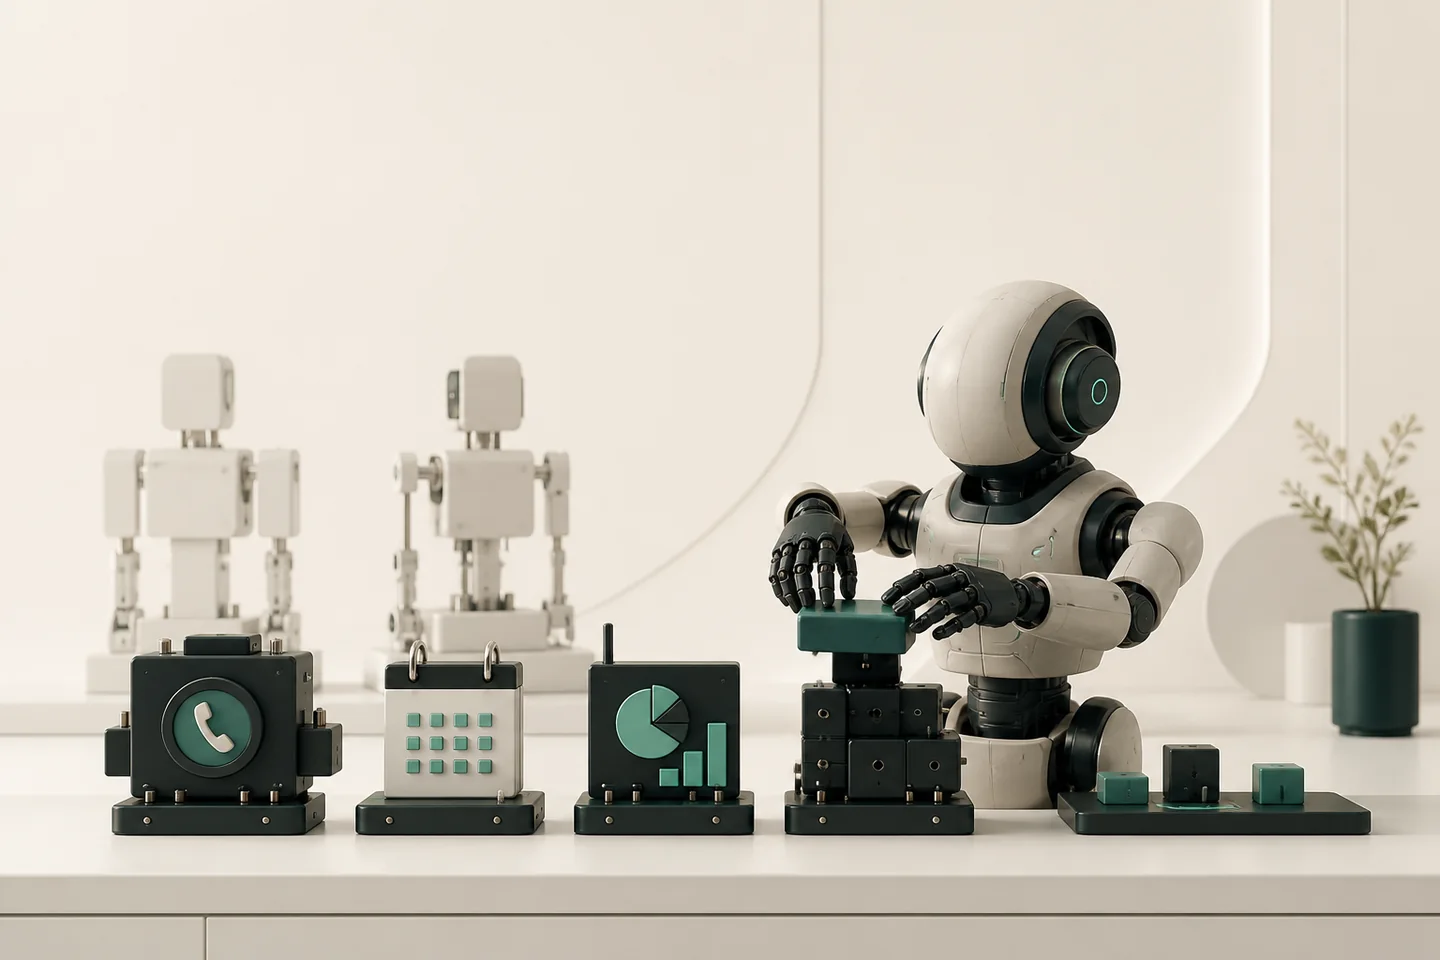
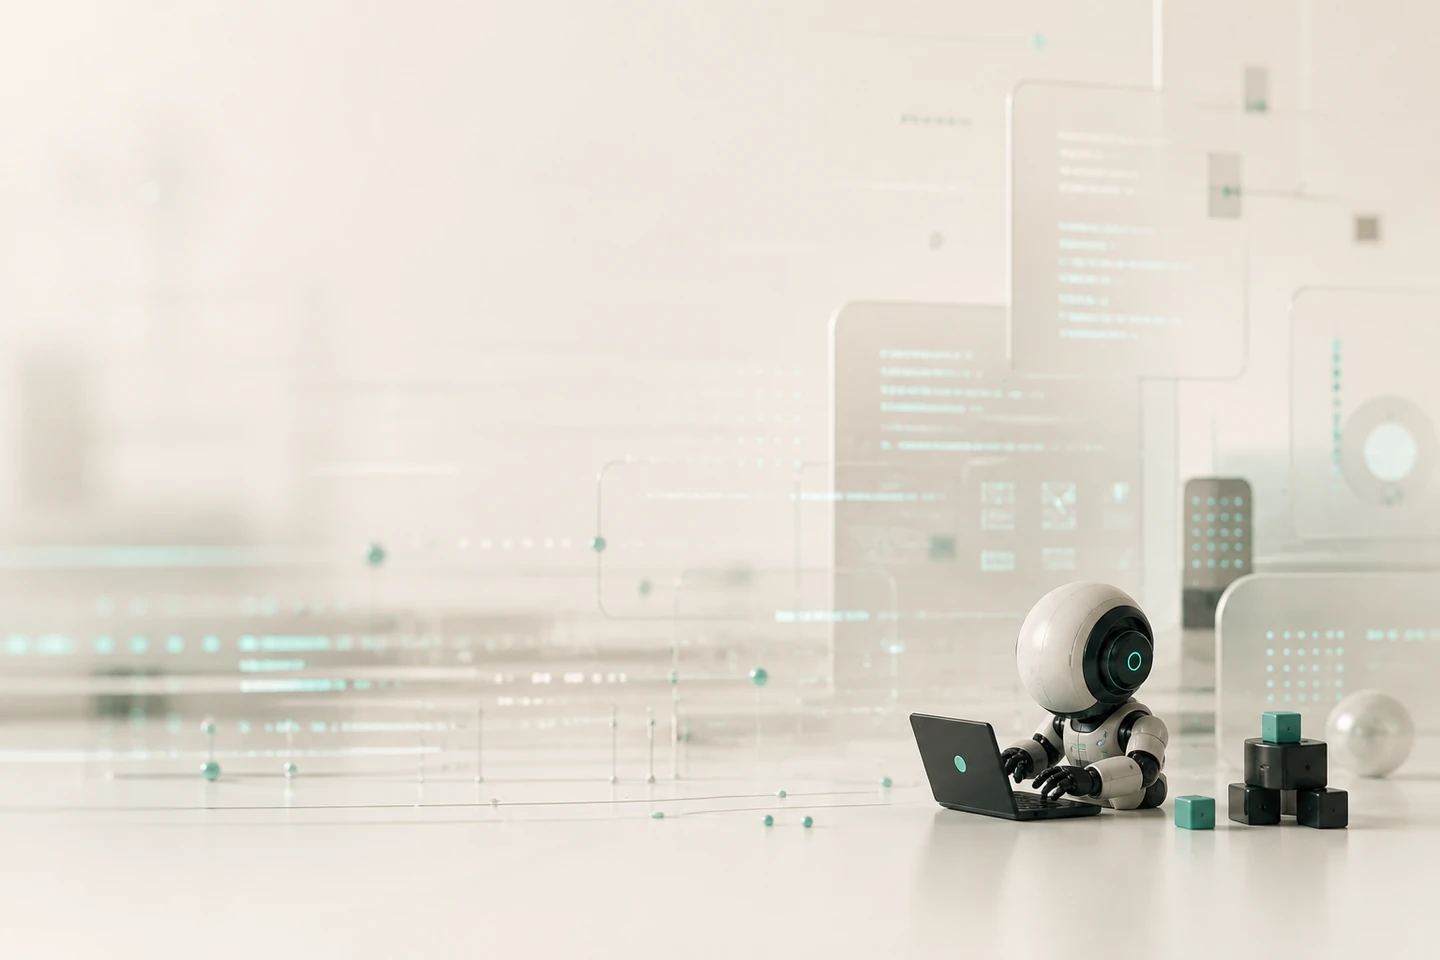
Refine NODIC mission vision founder and illustration

diff --git a/index.html b/index.html
@@ -155,18 +155,28 @@
       .company-item p { color: var(--muted); font-size: 14px; margin: 0; }
 
       .purpose { padding-top: 0; background: var(--white); }
-      .purpose-grid { display: grid; grid-template-columns: .82fr 1.18fr; gap: 84px; align-items: center; }
-      .purpose-copy { display: grid; gap: 0; }
-      .purpose-item { padding: 27px 0; border-top: 1px solid var(--line); }
-      .purpose-item:last-child { border-bottom: 1px solid var(--line); }
-      .purpose-item span { display: block; color: var(--teal); font: 700 11px 'Manrope'; letter-spacing: .14em; text-transform: uppercase; margin-bottom: 14px; }
-      .purpose-item h3 { font-size: 24px; letter-spacing: -.04em; margin-bottom: 11px; }
-      .purpose-item p { color: var(--muted); margin-bottom: 0; }
+      .purpose-grid { display: grid; grid-template-columns: .86fr 1.14fr; gap: 84px; align-items: start; }
+      .purpose-lead h2 { font-size: clamp(34px, 4vw, 56px); margin-bottom: 24px; }
+      .purpose-belief { color: var(--muted); font-size: 18px; margin: 0 0 36px; }
+      .mission-block { padding: 27px 0; border-top: 1px solid var(--line); border-bottom: 1px solid var(--line); }
+      .mission-block span, .vision-card span { display: block; color: var(--teal); font: 700 11px 'Manrope'; letter-spacing: .14em; text-transform: uppercase; margin-bottom: 14px; }
+      .mission-block h3 { font-size: 24px; letter-spacing: -.04em; margin-bottom: 11px; }
+      .mission-block p { color: var(--muted); margin-bottom: 0; }
       .builder-visual { margin: 0; }
       .builder-frame { overflow: hidden; border-radius: var(--radius); border: 1px solid var(--soft-line); background: #f2eee6; }
       .builder-frame img { display: block; width: 100%; height: auto; aspect-ratio: 3 / 2; object-fit: cover; }
       .builder-visual figcaption { display: flex; justify-content: space-between; gap: 22px; padding-top: 16px; color: var(--muted); font-size: 12px; }
       .builder-visual figcaption strong { color: var(--ink); font-family: 'Manrope'; }
+      .vision-card { margin-top: 30px; padding: 31px; border-radius: var(--radius); background: var(--ink); color: white; }
+      .vision-card span { color: var(--mint); }
+      .vision-card h3 { margin: 0; font-size: 24px; line-height: 1.35; letter-spacing: -.035em; }
+
+      .founder { padding-top: 0; background: var(--white); }
+      .founder-card { display: grid; grid-template-columns: .34fr .66fr; gap: 70px; padding: 54px 0; border-top: 1px solid var(--line); border-bottom: 1px solid var(--line); align-items: start; }
+      .founder-mark { width: 90px; height: 90px; border-radius: 28px; background: var(--mint); color: var(--ink); display: grid; place-items: center; font: 800 26px 'Manrope'; }
+      .founder-copy h2 { margin-bottom: 23px; }
+      .founder-copy p { color: var(--muted); font-size: 17px; max-width: 760px; }
+      .founder-copy p:last-child { margin-bottom: 0; }
 
       .product-grid { display: grid; grid-template-columns: .9fr 1.1fr; gap: 88px; align-items: center; }
       .product-copy h2 { margin-bottom: 25px; }
@@ -242,7 +252,7 @@
         .nav-links a { padding: 10px; }
         .menu { display: block; }
         .nav-inner > .nav-cta { display: none; }
-        .hero-grid, .section-intro, .product-grid, .purpose-grid, .faq-grid, .contact-card { grid-template-columns: 1fr; gap: 42px; }
+        .hero-grid, .section-intro, .product-grid, .purpose-grid, .founder-card, .faq-grid, .contact-card { grid-template-columns: 1fr; gap: 42px; }
         .hero-aside { border-left: 0; border-top: 1px solid var(--line); padding: 30px 0 0; }
         .company-grid, .value-grid { grid-template-columns: 1fr; }
         .company-item, .company-item + .company-item { padding: 26px 0; border-right: 0; border-bottom: 1px solid var(--line); min-height: auto; }
@@ -279,6 +289,7 @@
         <nav class="nav-links" id="navLinks">
           <a href="#nodic">NODIC</a>
           <a href="#vision">Visión</a>
+          <a href="#fundador">Fundador</a>
           <a href="#herox">HeroX</a>
           <a href="#planes">Planes</a>
           <a class="button nav-cta" href="#contacto">Solicitar demostración</a>
@@ -325,27 +336,43 @@
 
       <section class="purpose" id="vision">
         <div class="container purpose-grid">
-          <div>
+          <div class="purpose-lead">
             <div class="section-label">Dirección de NODIC AI</div>
-            <div class="purpose-copy">
-              <article class="purpose-item">
-                <span>Misión</span>
-                <h3>Convertir tecnología en capacidad de trabajo.</h3>
-                <p>Crear empleados digitales especializados que asuman funciones operativas reales y permitan a las empresas crecer con mayor continuidad, control y capacidad.</p>
-              </article>
-              <article class="purpose-item">
-                <span>Visión</span>
-                <h3>Construir la próxima fuerza laboral digital.</h3>
-                <p>Ser la infraestructura desde la que empresas y personas incorporen, administren y escalen equipos completos de trabajadores digitales.</p>
-              </article>
-            </div>
+            <h2>La IA como siguiente paso para la evolución empresarial.</h2>
+            <p class="purpose-belief">En NODIC AI creemos que la inteligencia artificial representa una nueva etapa en la evolución de las empresas.</p>
+            <article class="mission-block">
+              <span>Misión</span>
+              <h3>Desarrollar empleados digitales capaces de asumir trabajo operativo real.</h3>
+              <p>Nuestra misión es desarrollar empleados digitales capaces de asumir tareas operativas repetitivas y de alto volumen, permitiendo que las organizaciones reduzcan costos, aumenten su capacidad operativa y aprovechen mejor el talento humano.</p>
+            </article>
           </div>
-          <figure class="builder-visual">
-            <div class="builder-frame">
-              <img src="https://raw.githubusercontent.com/programador-zeta/Operador-telefonico-backend-/main/nodic-builder.webp" alt="Robot constructor de NODIC ensamblando nuevos módulos y empleados digitales" width="1440" height="960" loading="lazy" />
-            </div>
-            <figcaption><strong>Hoy, HeroX.</strong><span>Mañana, una familia completa de empleados digitales.</span></figcaption>
-          </figure>
+          <div>
+            <figure class="builder-visual">
+              <div class="builder-frame">
+                <img src="https://raw.githubusercontent.com/programador-zeta/Operador-telefonico-backend-/main/nodic-builder.webp?v=2" alt="Pequeño robot de NODIC programando en un entorno digital" width="1440" height="960" loading="lazy" />
+              </div>
+              <figcaption><strong>Hoy, HeroX.</strong><span>Mañana, una familia completa de empleados digitales.</span></figcaption>
+            </figure>
+            <article class="vision-card">
+              <span>Visión</span>
+              <h3>Construir un ecosistema de empleados digitales especializados que permita a las empresas integrar equipos formados por personas y tecnología, impulsando una nueva forma de trabajar basada en la eficiencia, la innovación y el crecimiento.</h3>
+            </article>
+          </div>
+        </div>
+      </section>
+
+      <section class="founder" id="fundador">
+        <div class="container founder-card">
+          <div>
+            <div class="section-label">Sobre el fundador</div>
+            <div class="founder-mark" aria-hidden="true">GC</div>
+          </div>
+          <div class="founder-copy">
+            <h2>Hola, soy Giovani Cárdenas, fundador de NODIC AI.</h2>
+            <p>Mi objetivo es acercar la inteligencia artificial a las empresas mediante soluciones tecnológicas capaces de generar un impacto real en sus operaciones.</p>
+            <p>Por ello, trabajamos en el desarrollo de empleados digitales diseñados para asumir funciones específicas, sostener mayores volúmenes de trabajo y permitir que las empresas concentren sus esfuerzos en actividades estratégicas.</p>
+            <p>NODIC AI nace con la convicción de que la inteligencia artificial puede convertirse en una herramienta accesible para cualquier organización, independientemente de su tamaño o sector.</p>
+          </div>
         </div>
       </section>
 
